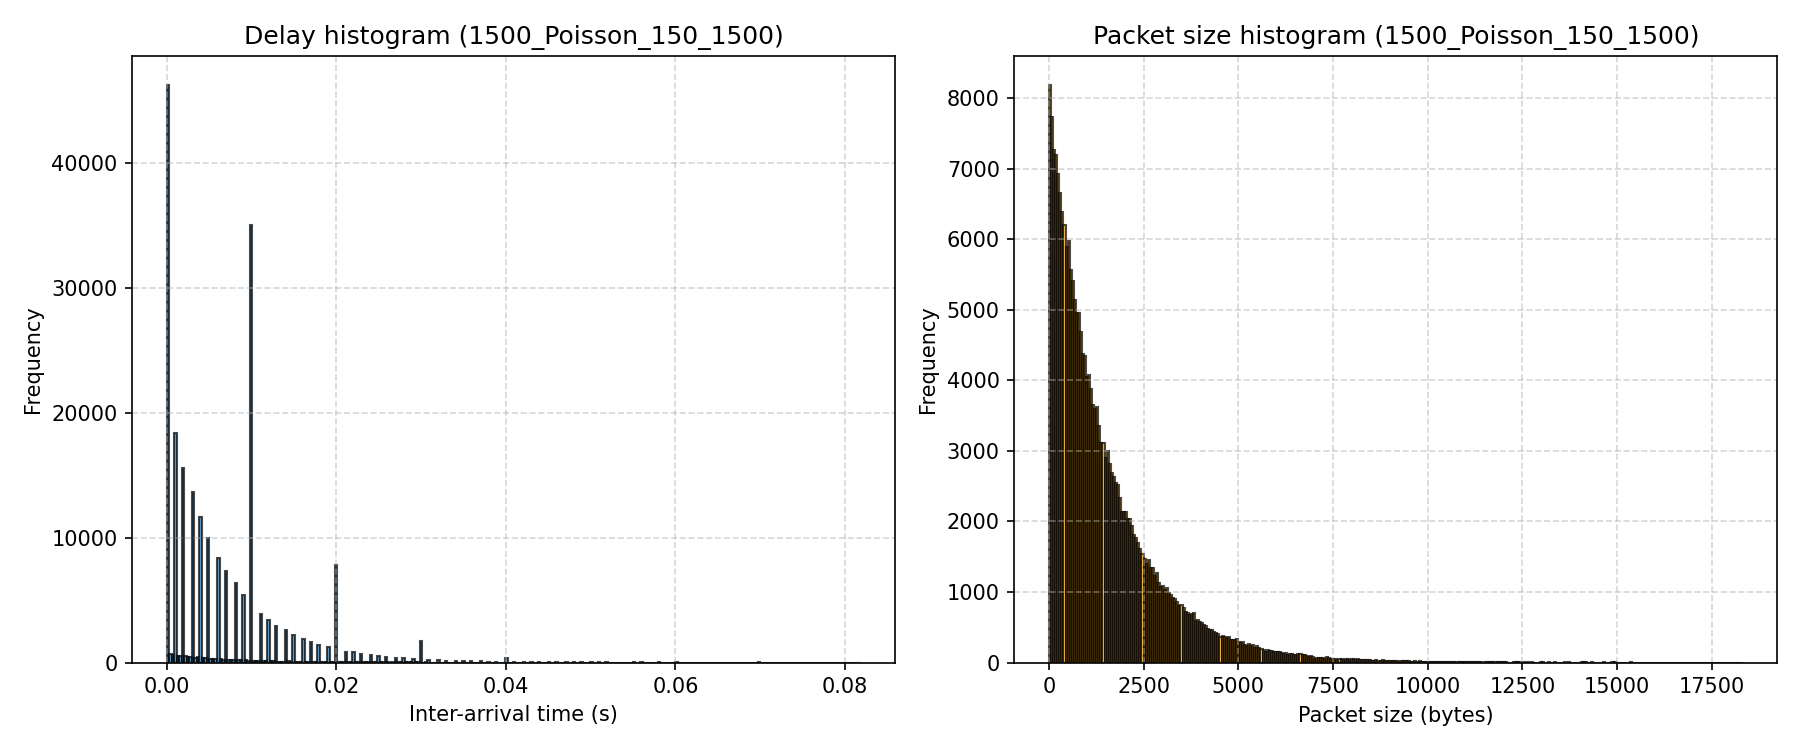
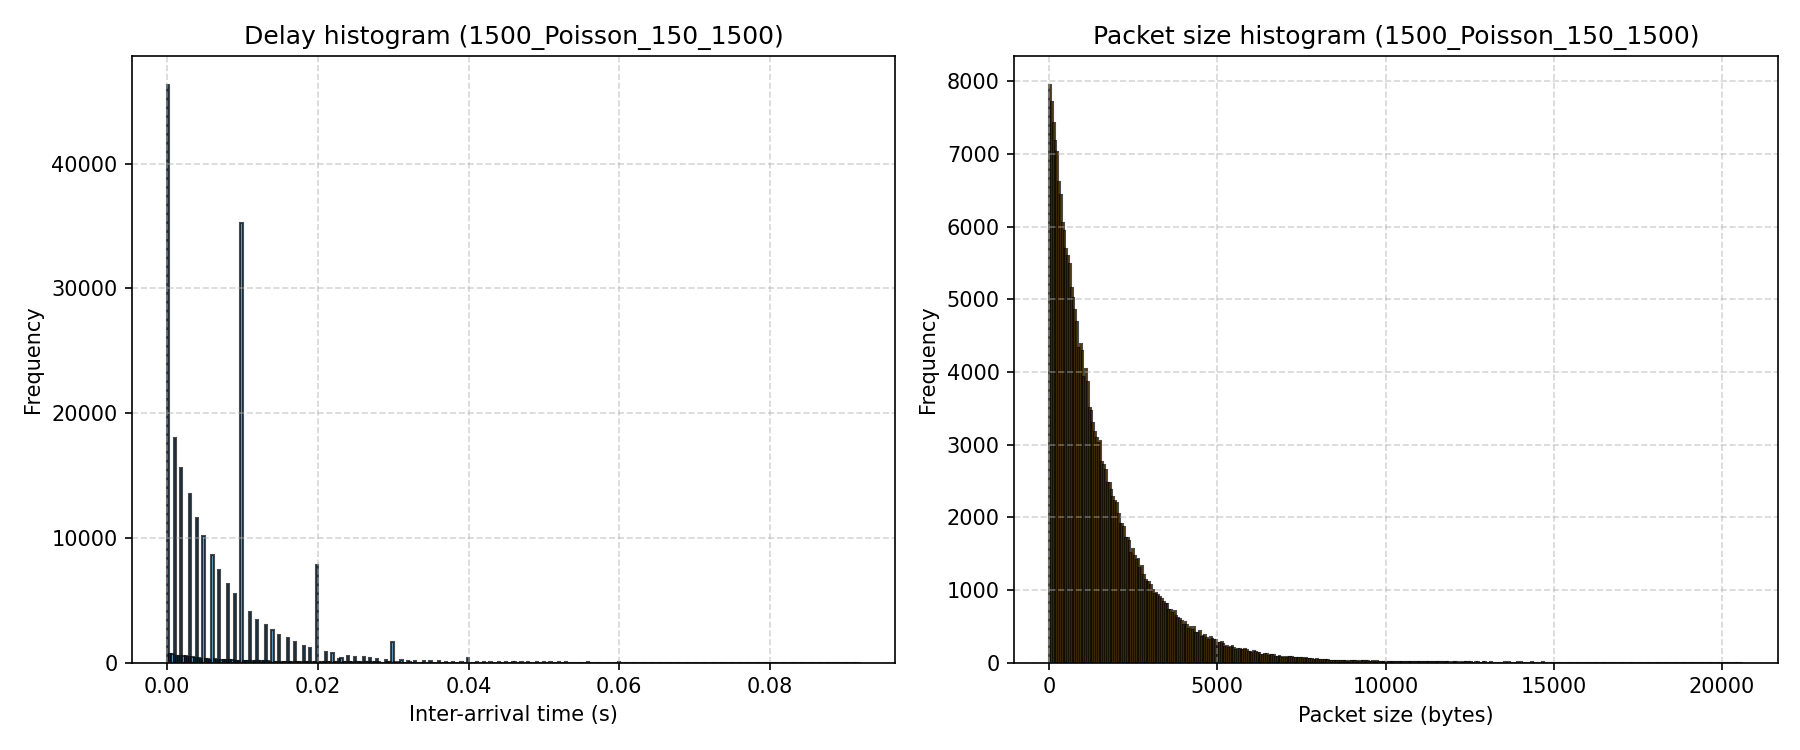
rename

diff --git a/README.md b/README.md
@@ -25,7 +25,7 @@ chmod +x bash
 ```
 Скрипт автоматически:
 
-    Создаёт виртуальное окружение PythonProject/venv и устанавливает нужные библиотеки.
+    Создаёт виртуальное окружение python/venv и устанавливает нужные библиотеки.
 
     Собирает C++ проект в папке build
 
@@ -48,7 +48,7 @@ make
 
 2. Подготовка Python-окружения
 ```
-cd ../PythonProject
+cd ../python
 python3 -m venv venv
 source venv/bin/activate
 pip install pandas numpy matplotlib
@@ -65,7 +65,7 @@ pip install pandas numpy matplotlib
 
 Анализ CSV и построение графика
 ```
-python Analysis.py ../Examples/test_uniform.csv
+python3 Analysis.py ../Examples/test_uniform.csv
 ```
 
 Входные файлы должны содержать две строки:
@@ -88,13 +88,13 @@ uniform: 1.0 1000
 ```
 .
 ├── CMakeLists.txt          # Сборка C++
-├── Sources/                # Исходники C++
+├── cpp/                    # Исходники C++
 │   ├── main.cpp
 │   ├── Traffic_Model.*
 │   ├── Uniform_Model.*
 │   ├── Poisson_Model.*
 │   └── File_Manager.*
-├── PythonProject/
+├── python/
 │   ├── Analysis.py         # Скрипт анализа
 │   └── venv/               # Виртуальное окружение (создаётся автоматически)
 ├── Examples/               # Входные файлы для тестов (без расширения)